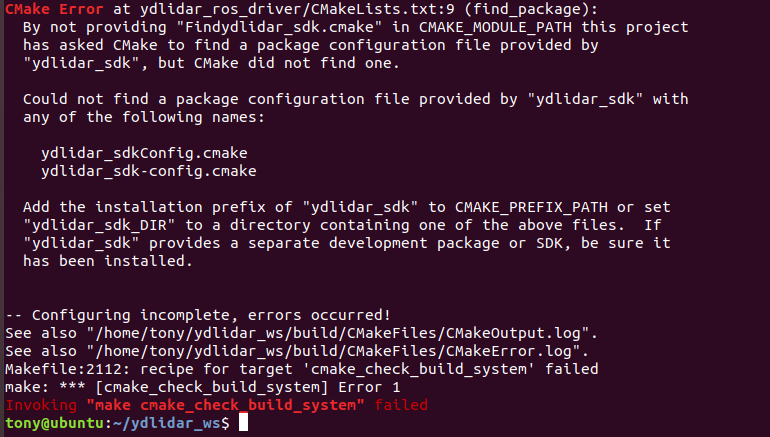
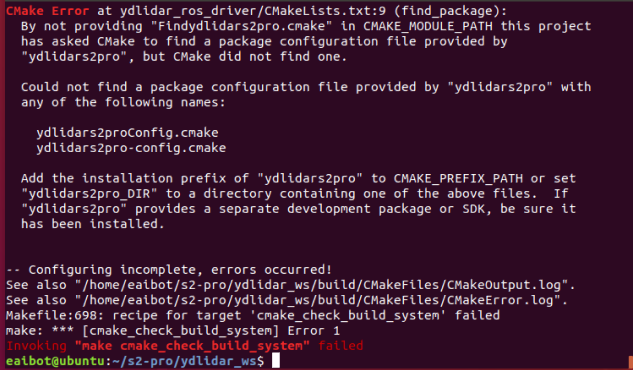
improve documentation

Changed region(s): [[0.0, 0.0, 1.0, 1.0]]

diff --git a/README.md b/README.md
@@ -3,13 +3,12 @@
 
 ydlidar_ros_driver is a new ros package, which is designed to gradually become the standard driver package for ydlidar devices in the ros environment.
 
-## Compile & Install YDLidar SDK
+## Compile & Install S2-Pro SDK
 
-ydlidar_ros_driver depends on YDLidar-SDK library. If you have never installed YDLidar-SDK library or it is out of date, you must first install YDLidar-SDK library. If you have installed the latest version of YDLidar-SDK, skip this step and go to the next step.
+ydlidar_ros_driver depends on YDLidar-SDK library. If you have never install SDK S2-Pro library or it is out of date, you must first install S2-Pro library. If you have installed the latest version of YDLidar-SDK, skip this step and go to the next step.
 
-1. Download or clone the [YDLIDAR/YDLidar-SDK](https://github.com/YDLIDAR/YDLidar-SDK) repository on GitHub.
-2. Compile and install the YDLidar-SDK under the ***build*** directory following `README.md` of YDLIDAR/YDLidar-SDK.
-
+1. Download or clone the [YDLIDAR/S2-Pro](https://github.com/YDLIDAR/S2-Pro) repository on GitHub.
+2. Compile and install S2-Pro with the branch name intensity in the *** build *** directory following `README.md` of YDLIDAR/S2-Pro.
 ## Clone ydlidar_ros_driver
 
 1. Clone ydlidar_ros_driver package for github : 
@@ -17,12 +16,13 @@ ydlidar_ros_driver depends on YDLidar-SDK library. If you have never installed Y
    `git clone https://github.com/YDLIDAR/ydlidar_ros_driver.git ydlidar_ws/src/ydlidar_ros_driver`
 
 2. Build ydlidar_ros_driver package :
-
+   cd  ydlidar_ws/src/ydlidar_ros_driver
+   git switch S2-Pro
    ```
-   cd ydlidar_ws
+   cd ../../
    catkin_make
    ```
-   <font color=Red size=4>>Note: If the following error occurs, Please install  [YDLIDAR/YDLidar-SDK](https://github.com/YDLIDAR/YDLidar-SDK) first.</font>
+   <font color=Red size=4>>Note: If the following error occurs, Please install  [YDLIDAR/S2-Pro](https://github.com/YDLIDAR/S2-Pro) first.</font>
 
    ![CMAKE ERROR](images/cmake_error.png  "CMAKE ERROR")
 
@@ -33,7 +33,7 @@ ydlidar_ros_driver depends on YDLidar-SDK library. If you have never installed Y
     Note: Add permanent workspace environment variables.
     It's convenientif the ROS environment variables are automatically added to your bash session every time a new shell is launched:
     ```
-    $echo "source ~/ydlidar_ws/devel/setup.bash" >> ~/.bashrc
+    $echo "source ydlidar_ws/devel/setup.bash" >> ~/.bashrc
     $source ~/.bashrc
     ```
 4. Confirmation
@@ -97,6 +97,7 @@ is `"ydlidar_ws/src/ydlidar_ros_driver/launch"`. All launch files are listed as 
 | TX.launch         | Connect to TX8/TX20 LiDAR<br />Publish LaserScan message on `scan` topic |
 | X2.launch         | Connect to X2/X2L LiDAR<br />Publish LaserScan message on `scan` topic |
 | X4.launch         | Connect to X4 LiDAR<br />Publish LaserScan message on `scan` topic |
+| S2Pro.launch      | Connect to S2Pro LiDAR<br />Publish LaserScan message on `scan` topic |
 
 ## Publish Topic
 | Topic                | Type                    | Description                                      |
